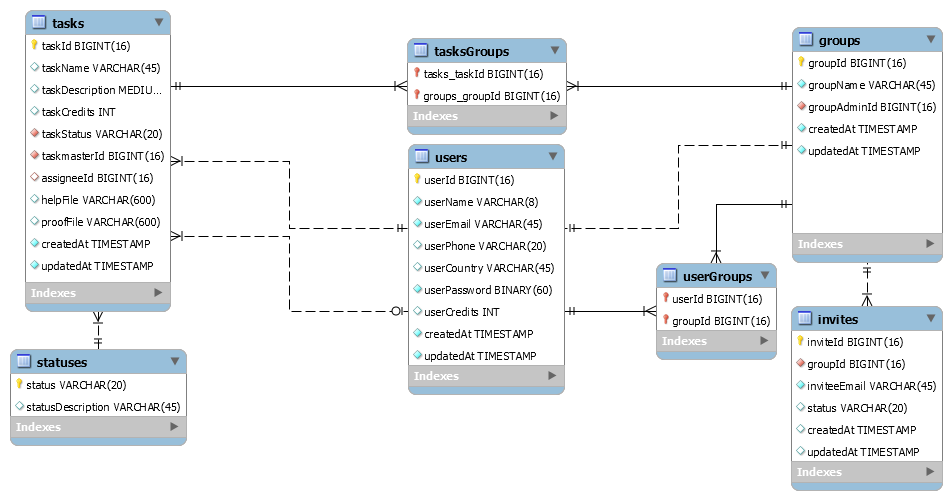
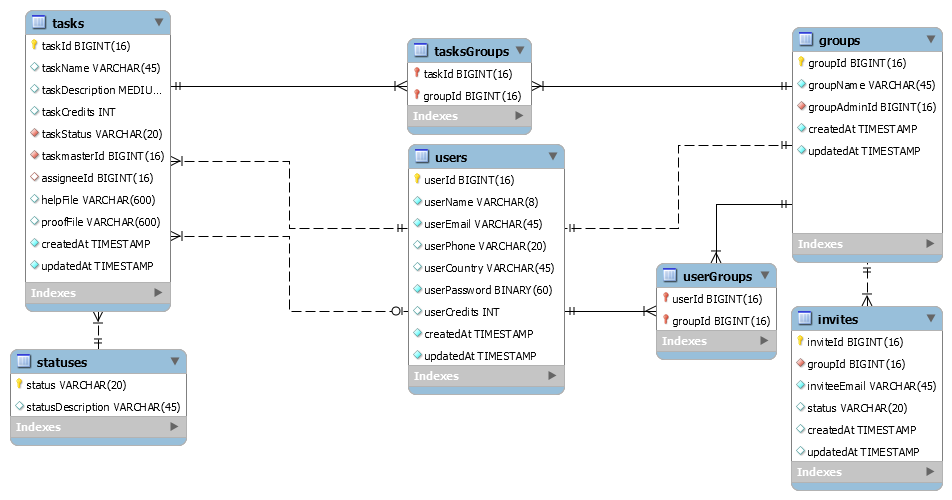
Task creation now happens inside a group

Changed region(s): [[0.4569, 0.06, 0.6092, 0.27]]

diff --git a/app/controllers/tasks.controller.js b/app/controllers/tasks.controller.js
@@ -33,7 +33,8 @@ exports.read = function(req, res) {
                   pageTitle: 'View Tasks',
                   taskList: taskList,
                   user: req.user,
-                  groupName: results.groupName || '(all)'
+                  groupName: results.groupName || '(all)',
+                  groupId: req.currentGroup
                 });
               });
             } else {
@@ -66,7 +67,7 @@ exports.create = function(req, res, next) {
                     if (!err) {
                         message = 'Task created!';
                         req.flash('error', message);
-                        res.redirect('/createTask');
+                        res.redirect('/group/' + req.currentGroup + '/createTask');
                     }
                 });
             }
@@ -74,7 +75,7 @@ exports.create = function(req, res, next) {
     } else {
         message = 'Need at least one credit!';
         req.flash('error', message);
-        res.redirect('/createTask');
+        res.redirect('/group/' + req.currentGroup + '/createTask');
     }
 };
 
@@ -255,13 +256,13 @@ exports.render = function(req, res, next) {
     var assigner = req.user;
     var assigneeList;
 
-    var db = require('../models/db.model')();
+    var groups = require('../models/groups.model');
 
-    // get list of assignees
-    db.query({
-        sql: 'select * from users where userId <> ?;',
-        values: req.user.userId
-    }, function(err, results, fields) {
+    // get list of potential assignees
+    // (all users in the same group, minus the current user)
+    console.log('Cur group: ' + req.currentGroup);
+    groups.groupUsers(req.currentGroup, function(err, results) {
+      console.log(results);
         if (err) {
             console.log(err.toString());
             next(err);
@@ -273,13 +274,13 @@ exports.render = function(req, res, next) {
                 assigneeList[i][1] = results[i].userName;
             }
         }
-
         res.render('createTask', {
             pageTitle: 'Task Creator',
             user: req.user,
             errorMsg: req.flash('error'),
             assigner: assigner,
-            assigneeList: assigneeList
+            assigneeList: assigneeList,
+            groupId: req.currentGroup
         });
     });
 }

diff --git a/app/routes/server.routes.js b/app/routes/server.routes.js
@@ -37,26 +37,24 @@ module.exports = function(app) {
     // Home page (group list)
     app.get('/', groups.loadUserOwnedGroups, groups.loadUserGroups, index.render);
 
+    // Group creation
+    app.get('/createGroup', groups.renderGroupCreator);
+    app.post('/createGroup', groups.create);
+
     // Group view
-    app.get('/group/:groupId', task.read);
     app.param('groupId', groups.selectGroup);
+    app.get('/group/:groupId', task.read);
 
     // Tasks
-    app.get('/createTask', task.render);
-    app.route('/tasks')
-        .get(task.read);
-    app.post('/tasks', upload.single('helpFile'), task.create);
-    app.route('/task/:user')
-        .get(task.showAll);
     app.param('user', task.allByUser);
-    app.route('/executeTasks')
-        .get(task.showAssigneeTasks);
+    app.get('/group/:groupId/createTask', task.render);
+    app.post('/group/:groupId/tasks', upload.single('helpFile'), task.create);
+    app.get('/task/:user', task.showAll);
+
+    // Task status update
+    app.get('/executeTasks', task.showAssigneeTasks);
     app.post('/tasks/update', upload.single('proofFile'), task.updateAssigneeTasks, task.renderAssigneeTasks);
 
-    // Groups
-    app.get('/createGroup', groups.renderGroupCreator);
-    app.route('/createGroup')
-            .post(groups.create);
 
     // Invitations
     app.get('/newInvite', invitation.renderNewInvite);
@@ -69,9 +67,9 @@ module.exports = function(app) {
    app.post('/manageTask', task.completeTask);
 
    // File download Routes
+   app.param('taskId', task.byId)
    app.get('/task/:taskId/proof', files.getProofFile);
    app.get('/task/:taskId/help', files.getHelpFile);
-   app.param('taskId', task.byId)
 
    //Profile
    app.get('/userInformation', task.userInformation);

diff --git a/app/models/groups.model.js b/app/models/groups.model.js
@@ -42,6 +42,7 @@ exports.createGroup = function(group, user, callback){
     });//end query
 }
 
+// Returns all groups owned by the user
 exports.groupsOwnedById = function(userId, callback){
   var db = require('../models/db.model')();
   db.query({
@@ -61,6 +62,7 @@ exports.groupsOwnedById = function(userId, callback){
   });
 }
 
+// Returns all groups where a user is a member
 exports.groupsById = function(userId, callback){
   var db = require('../models/db.model')();
   db.query({
@@ -79,6 +81,22 @@ exports.groupsById = function(userId, callback){
           return;
       }
       callback(false, results);
+  });
+}
+
+// Get a list of users in a group
+exports.groupUsers = function(groupId, callback){
+  var db = require('../models/db.model')();
+  db.query({
+    sql: 'SELECT u.* FROM users AS u INNER JOIN userGroups AS ug ON (ug.userId = u.userId) WHERE groupId = ?',
+    values: [groupId]
+  }, function (err, results, fields) {
+    db.end();
+    if (err){
+      callback(err);
+      return;
+    }
+    callback(false, results);
   });
 }
 

diff --git a/app/models/tasks.model.js b/app/models/tasks.model.js
@@ -63,13 +63,25 @@ exports.createTask = function(task, file, callback) {
         '(taskName, taskDescription, taskCredits, taskStatus, taskmasterId, assigneeId, helpFile) ' +
         'VALUES (?,?,?,?,?,?,?);',
         values: [task.name, task.description, task.credits, task.status, task.assigner, task.assignee, serializedFile]
-    }, function(err, results, fields) {
-        db.end();
+    }, function(err, result) {
         if (err) {
             callback(err);
             return;
+        } else {
+          // Add task to the group
+          db.query({
+              sql: 'INSERT INTO tasksGroups (taskId, groupId) ' +
+              'VALUES (?,?);',
+              values: [result.insertId, task.groupId]
+          }, function(err, results, fields) {
+              db.end();
+              if (err) {
+                  callback(err);
+                  return;
+              }
+              callback(false, results);
+          });
         }
-        callback(false, results);
     });
 }
 
